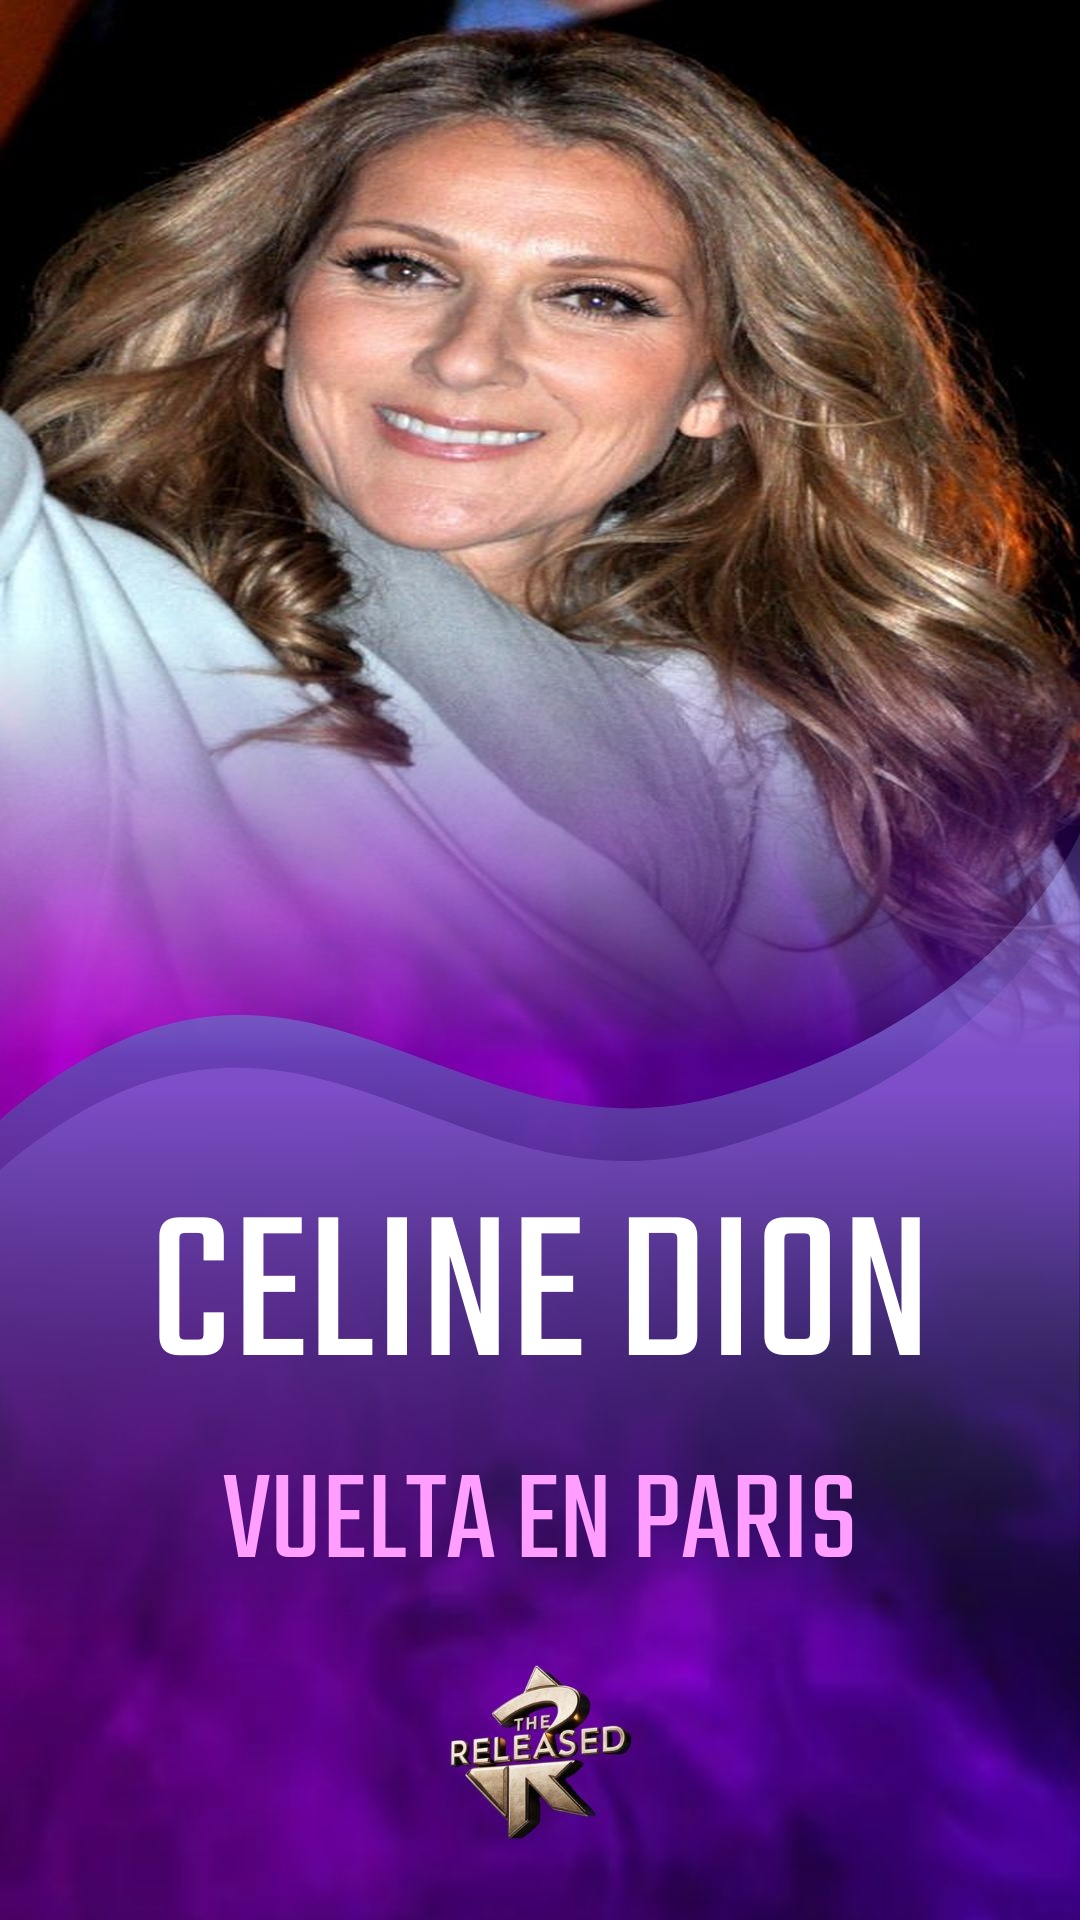
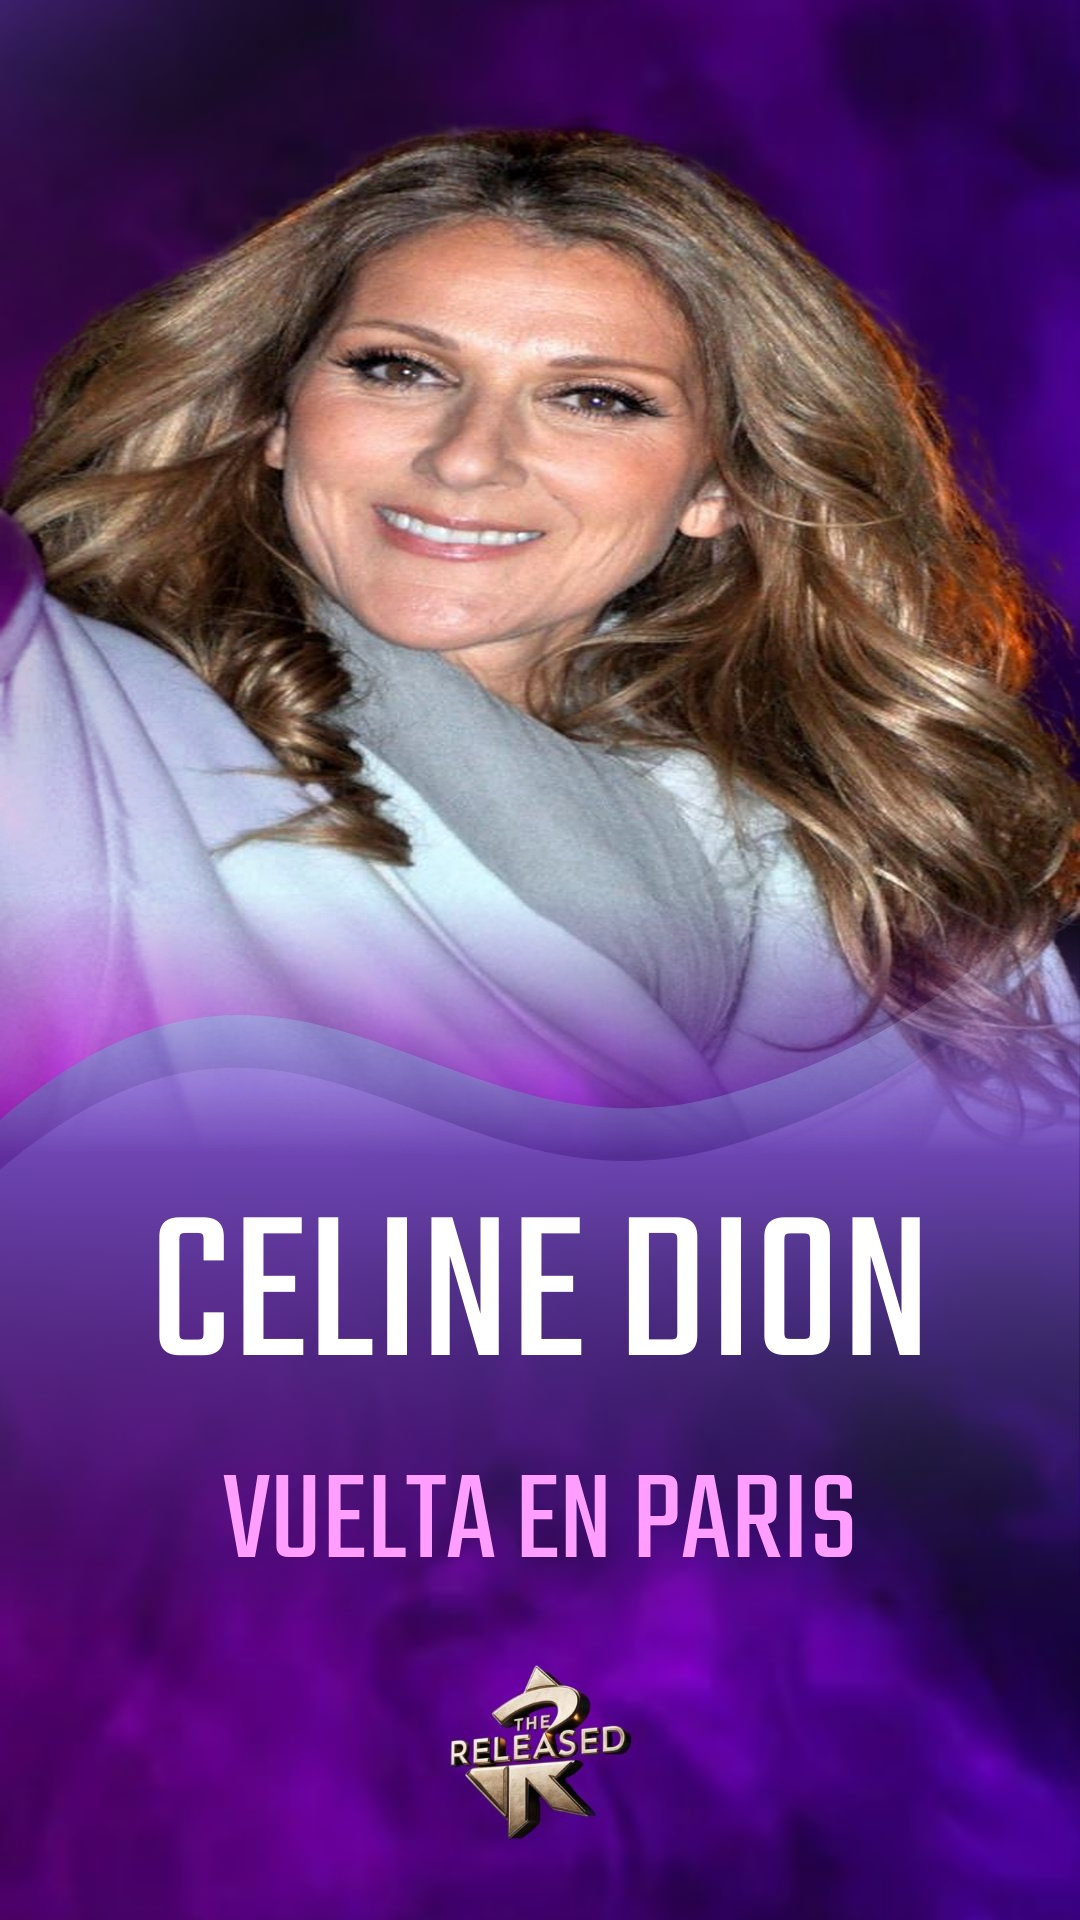
Bot completo - video generator, uploaders y main

diff --git a/image_generator.py b/image_generator.py
@@ -1,8 +1,11 @@
 # image_generator.py
-from PIL import Image, ImageDraw, ImageFont
+from rembg import remove , new_session
+from PIL import Image, ImageDraw, ImageFont , ImageChops ,ImageFilter ,ImageOps
 import requests
 import os
 from io import BytesIO
+import numpy as np 
+
 
 FUENTE_PATH = "assets/Teko.ttf"
 
@@ -52,7 +55,7 @@ def extraer_artista_de_titulo(titulo: str) -> str:
     palabras = titulo.split()
     return " ".join(palabras[:2])
 
-def generar_portada(plantilla_path: str, titulo: str, subtitulo: str,
+def generar_portada(plantilla_olas_path: str, plantilla_path: str, titulo: str, subtitulo: str,
                     nombre_artista: str, output_path: str):
     """Genera la portada final con foto, título y subtítulo"""
 
@@ -60,26 +63,110 @@ def generar_portada(plantilla_path: str, titulo: str, subtitulo: str,
     plantilla = Image.open(plantilla_path).convert("RGBA")
     ancho, alto = plantilla.size  # 1080 x 1920
 
-    # Buscar y pegar foto del artista
+    # Buscar y pegar foto del artista ,Pasar la foto po remove.png para que le quite el fondo y quede solo el artista
     foto = buscar_imagen_artista(nombre_artista)
-    if foto:
-        foto_alto = int(alto * 0.55)
-        foto = foto.resize((ancho, foto_alto), Image.LANCZOS)
+    session = new_session("isnet-general-use")
+    foto_sin_fondo = remove(
+    foto, 
+    session=session,
+    alpha_matting=True,
+    alpha_matting_foreground_threshold=240, # Píxeles muy seguros de ser persona
+    alpha_matting_background_threshold=30,  # Píxeles muy seguros de ser fondo
+    alpha_matting_erode_size=20              # Ajuste fino del borde
+    )
+    #foto_sin_fondo = remove(foto, model='isnet-general-use', alpha_matting=True)
+    foto_sin_fondo.save("assets/foto_sin_fondo.png")
 
-        #crear mascara de degradado para fundir la foto con el fond
-        mascara = Image.new("L",(ancho,  foto_alto), 255)
-        draw_mascara = ImageDraw.Draw(mascara)
 
-         # Degradado en la parte inferior de la foto
-        for i in range(int(foto_alto * 0.6), foto_alto):
-            opacidad = int(255 * (1 - (i - foto_alto * 0.6) / (foto_alto * 0.4)))
-            draw_mascara.line([(0, i), (ancho, i)], fill=opacidad)
+    if foto_sin_fondo:
+            # 1. Aseguramos el modo y el tamaño
+            foto_sin_fondo = foto_sin_fondo.convert("RGBA")
+            foto_alto = int(alto * 0.55) 
+            foto_sin_fondo = foto_sin_fondo.resize((ancho, foto_alto), Image.LANCZOS)
 
-        foto_rgba = foto.convert("RGBA")
-        foto_rgba.putalpha(mascara)
-        plantilla.paste(foto_rgba, (0, 0), foto_rgba)
+            # 2. EL TRUCO DEL PELO: Suavizado de bordes
+            alfa = foto_sin_fondo.getchannel('A')
+            alfa = alfa.filter(ImageFilter.GaussianBlur(radius=1.5)) 
+            foto_sin_fondo.putalpha(alfa)
 
-    # Preparar para escribir texto
+            # 3. CREAR LA MÁSCARA (Esto es lo que te faltaba copiar)
+            # Creamos una máscara negra del tamaño de la foto
+            mascara = Image.new("L", (ancho, foto_alto), 255)
+            draw = ImageDraw.Draw(mascara)
+            
+            # Dibujamos el degradado en la parte de abajo
+            inicio_grad = int(foto_alto * 0.75)
+            for i in range(inicio_grad, foto_alto):
+                # Calculamos la opacidad para que se desvanezca
+                opacidad = int(255 * (1 - (i - inicio_grad) / (foto_alto - inicio_grad)))
+                draw.line([(0, i), (ancho, i)], fill=opacidad)
+
+            # Combinamos el alfa suavizado con el degradado recién creado
+            alfa_final = ImageChops.multiply(foto_sin_fondo.getchannel('A'), mascara)
+            foto_sin_fondo.putalpha(alfa_final)
+
+            # 4. LA CLAVE FINAL: Pegado profesional
+            capa_personaje = Image.new("RGBA", plantilla.size, (0, 0, 0, 0))
+            capa_personaje.paste(foto_sin_fondo, (0, 100))
+            
+            # Mezcla real de transparencias (aquí es donde el pelo se vuelve morado de fondo)
+            plantilla = Image.alpha_composite(plantilla.convert("RGBA"), capa_personaje)
+
+    #Lo pasamos por la IA
+    ###cargar la parte de la capa de las olas y el efecto de luz
+    #plantilla_olas = Image.open(plantilla_olas_path).convert("RGBA")
+
+    #r, g, b, a = plantilla_olas.split()   
+    #nueva_mascara = ImageOps.invert(g)
+    #nueva_mascara = nueva_mascara.point(lambda p: p if p > 100 else 0)  # Umbral para eliminar el fondo
+    #nueva_mascara = nueva_mascara.filter(ImageFilter.GaussianBlur(radius=0.5))
+    #plantilla_olas.putalpha(nueva_mascara)
+
+    #olas_sin_fondo = remove(
+    #        plantilla_olas,
+    #        session=session,
+    #        alpha_matting=True,
+    #        alpha_matting_foreground_threshold=240,
+    #        alpha_matting_background_threshold=10,
+    #        alpha_matting_erode_size=2 
+    #    )
+
+    #redimensionado y pegado
+    #plantilla_olas = plantilla_olas.resize(plantilla.size, Image.LANCZOS)
+    #plantilla_olas.save("assets/olas_sin_fondo.png")
+    #plantilla = Image.alpha_composite(plantilla.convert("RGBA"), plantilla_olas)
+
+
+    #
+    #opcion 2 a mano
+    ##cargar la parte de la capa de las olas y el efecto de luz
+    #plantilla_olas = Image.open(plantilla_olas_path).convert("RGBA")
+    #plantilla_olas = plantilla_olas.resize(plantilla.size, Image.LANCZOS)
+    ## 2. SEPARAR CANALES
+    #r, g, b, a = plantilla_olas.split()
+    #    
+    ## 3. CREAR MÁSCARA ANTI-BLANCO
+    ## Buscamos los píxeles donde R, G y B son altos (casi blancos)
+    ## y creamos una máscara que los vuelva transparentes.        
+    ## Convertimos los canales a arrays de Numpy para operar rápido
+    #R = np.array(r)
+    #G = np.array(g)
+    #B = np.array(b)
+    #    
+    ## Definimos qué consideramos "blanco" (ej: > 240 en los 3 canales)
+    ## Puedes ajustar este 240 si tu blanco no es puro.
+    #umbral_blanco = 240 
+    #    
+    ## Creamos la máscara: Es negra (0) donde hay blanco, blanca (255) donde hay color
+    #mascara_anti_blanco = np.where((R > umbral_blanco) & (G > umbral_blanco) & (B > umbral_blanco), 0, 255).astype(np.uint8)
+    #    
+    ## Convertimos el array de vuelta a imagen PIL
+    #mask_img = Image.fromarray(mascara_anti_blanco, mode="L")
+    #    
+    ## 4. APLICAMOS LA MÁSCARA AL ALFA DEL EFECTO
+    #plantilla_olas.putalpha(mask_img)
+
+       # Preparar para escribir texto
     draw = ImageDraw.Draw(plantilla)
 
     # Cargar fuente Teko
@@ -109,11 +196,12 @@ def generar_portada(plantilla_path: str, titulo: str, subtitulo: str,
     return output_path
 
 # Prueba
-if __name__ == "__main__":
-    generar_portada(
-        plantilla_path="assets/plantilla_instagram.jpg",
-        titulo="Celine Dion",
-        subtitulo="Vuelta en Paris",
-        nombre_artista="Celine Dion",
-        output_path="assets/resultado_instagram.jpg"
-    )
+#if __name__ == "__main__":
+#    generar_portada(
+#        plantilla_olas_path="assets/plantilla_olas.jpg",
+#        plantilla_path="assets/plantilla_instagram.jpg",
+#        titulo="Celine Dion",
+#        subtitulo="Vuelta en Paris",
+#        nombre_artista="Celine Dion",
+#        output_path="assets/resultado_instagram.jpg"
+#     )

diff --git a/ai_generator.py b/ai_generator.py
@@ -99,6 +99,6 @@ def confirmar_y_generar(noticias: list) -> dict:
 
 
 # Prueba del modulo solo
-if __name__ == "__main__":
-    resultado = generar_metadata("Noche Eterna", "Extended Mix", "techno")
-    print(resultado)
+#if __name__ == "__main__":
+#    resultado = generar_metadata("Noche Eterna", "Extended Mix", "techno")
+#    print(resultado)

diff --git a/news_fetcher.py b/news_fetcher.py
@@ -82,6 +82,6 @@ def mostrar_noticias(noticias: list):
         print()
 
 # Prueba
-if __name__ == "__main__":
-    noticias = obtener_todas_noticias()
-    mostrar_noticias(noticias)
+#if __name__ == "__main__":
+#    noticias = obtener_todas_noticias()
+#    mostrar_noticias(noticias)
